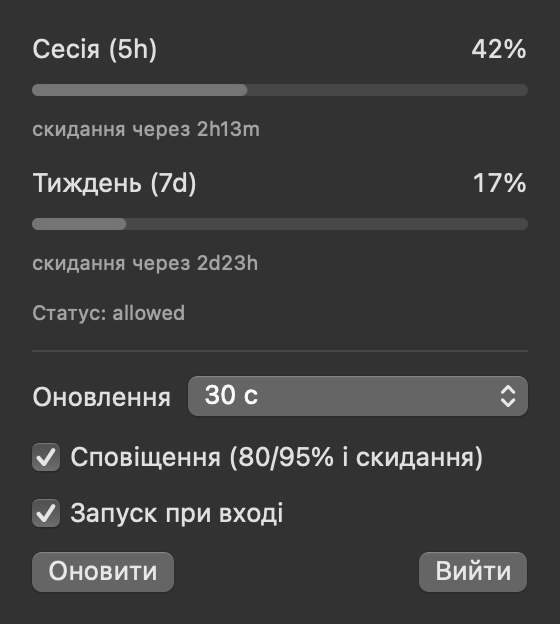
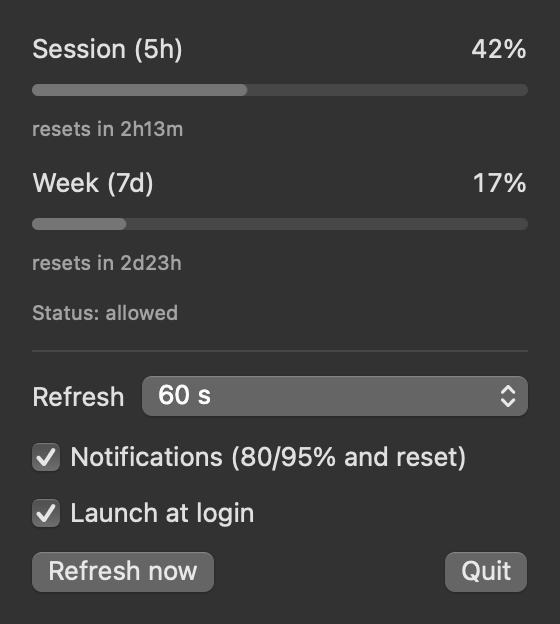
feat: English/Ukrainian localization by system language
Claude-Session: https://claude.ai/code/session_01P3xb7KCXM7QLWYKrbe322S

diff --git a/Sources/ClawdMenu/ClawdMenuApp.swift b/Sources/ClawdMenu/ClawdMenuApp.swift
@@ -2,6 +2,32 @@ import SwiftUI
 import ServiceManagement
 import UserNotifications
 
+// MARK: - Localization (укр, якщо серед мов системи є українська; інакше англійська)
+
+var lang = Locale.preferredLanguages.contains { $0.hasPrefix("uk") } ? "uk" : "en"
+let uk: [String: String] = [
+    "Session reset": "Сесію скинуто",
+    "The 5h limit is available again": "Ліміт 5h знову вільний",
+    "Claude: session %d%%": "Claude: сесія %d%%",
+    "Resets in %@": "Скидання через %@",
+    "resets in %@": "скидання через %@",
+    "Token not found in Keychain — sign in to Claude Code": "Токен не знайдено в Keychain — залогінься в Claude Code",
+    "Spend (overage)": "Витрати (overage)",
+    "Session (5h)": "Сесія (5h)",
+    "Week (7d)": "Тиждень (7d)",
+    "Status: %@": "Статус: %@",
+    "Refresh": "Оновлення",
+    "%d s": "%d с",
+    "Notifications (80/95% and reset)": "Сповіщення (80/95% і скидання)",
+    "Launch at login": "Запуск при вході",
+    "Refresh now": "Оновити",
+    "Quit": "Вийти",
+]
+func tr(_ key: String, _ args: CVarArg...) -> String {
+    let f = lang == "uk" ? uk[key] ?? key : key
+    return args.isEmpty ? f : String(format: f, arguments: args)
+}
+
 // MARK: - Model
 
 struct Usage {
@@ -51,11 +77,11 @@ final class Store: ObservableObject {
     private func check(_ u: Usage) {
         if u.session < lastSession - 20 {   // сесія скинулась
             notified.removeAll()
-            push("Сесію скинуто", "Ліміт 5h знову вільний")
+            push(tr("Session reset"), tr("The 5h limit is available again"))
         }
         for t in [80, 95] where u.session >= t && !notified.contains(t) {
             notified.insert(t)
-            push("Claude: сесія \(u.session)%", "Скидання через \(fmt(u.sessionReset))")
+            push(tr("Claude: session %d%%", u.session), tr("Resets in %@", fmt(u.sessionReset)))
         }
     }
 
@@ -87,7 +113,7 @@ func token() throws -> String {
         let m = String(s[r])
         return String(m.split(separator: "\"").last!)
     }
-    throw AppError(errorDescription: "Токен не знайдено в Keychain — залогінься в Claude Code")
+    throw AppError(errorDescription: tr("Token not found in Keychain — sign in to Claude Code"))
 }
 
 func fetch() async throws -> Usage {
@@ -126,7 +152,7 @@ struct Row: View {
             HStack { Text(label); Spacer(); Text("\(pct)%").monospacedDigit() }
             ProgressView(value: Double(min(pct, 100)), total: 100)
                 .tint(pct >= 95 ? .red : pct >= 80 ? .orange : .accentColor)
-            Text("скидання через \(fmt(reset))").font(.caption).foregroundStyle(.secondary)
+            Text(tr("resets in %@", fmt(reset))).font(.caption).foregroundStyle(.secondary)
         }
     }
 }
@@ -137,24 +163,24 @@ struct Panel: View {
     var body: some View {
         VStack(alignment: .leading, spacing: 12) {
             if let u = s.usage {
-                Row(label: u.enterprise ? "Витрати (overage)" : "Сесія (5h)", pct: u.session, reset: u.sessionReset)
-                if !u.enterprise { Row(label: "Тиждень (7d)", pct: u.week, reset: u.weekReset) }
-                Text("Статус: \(u.status)").font(.caption).foregroundStyle(.secondary)
+                Row(label: u.enterprise ? tr("Spend (overage)") : tr("Session (5h)"), pct: u.session, reset: u.sessionReset)
+                if !u.enterprise { Row(label: tr("Week (7d)"), pct: u.week, reset: u.weekReset) }
+                Text(tr("Status: %@", u.status)).font(.caption).foregroundStyle(.secondary)
             }
             if let e = s.error { Text(e).font(.caption).foregroundStyle(.red) }
             Divider()
-            Picker("Оновлення", selection: Binding(get: { s.interval }, set: { s.interval = $0; s.restart() })) {
-                ForEach([30.0, 60, 120, 300], id: \.self) { Text("\(Int($0)) с").tag($0) }
+            Picker(tr("Refresh"), selection: Binding(get: { s.interval }, set: { s.interval = $0; s.restart() })) {
+                ForEach([30.0, 60, 120, 300], id: \.self) { Text(tr("%d s", Int($0))).tag($0) }
             }
-            Toggle("Сповіщення (80/95% і скидання)", isOn: $s.notify)
-            Toggle("Запуск при вході", isOn: Binding(get: { login }, set: { on in
+            Toggle(tr("Notifications (80/95% and reset)"), isOn: $s.notify)
+            Toggle(tr("Launch at login"), isOn: Binding(get: { login }, set: { on in
                 do { on ? try SMAppService.mainApp.register() : try SMAppService.mainApp.unregister(); login = on }
                 catch { s.error = error.localizedDescription }
             }))
             HStack {
-                Button("Оновити") { Task { await s.refresh() } }
+                Button(tr("Refresh now")) { Task { await s.refresh() } }
                 Spacer()
-                Button("Вийти") { NSApplication.shared.terminate(nil) }
+                Button(tr("Quit")) { NSApplication.shared.terminate(nil) }
             }
         }
         .padding().frame(width: 280)
@@ -173,6 +199,7 @@ struct ClawdMenuApp: App {
     init() {
         // `ClawdMenu --render-demo out.png`: рендерить popover з демо-даними для README і виходить
         let a = CommandLine.arguments
+        if let l = a.firstIndex(of: "--lang"), l + 1 < a.count { lang = a[l + 1] }
         guard let i = a.firstIndex(of: "--render-demo"), i + 1 < a.count else { return }
         let demo = Usage(session: 42, sessionReset: 133, week: 17, weekReset: 4300, status: "allowed")
         let view = Panel(s: Store(demo: demo)).background(Color(nsColor: .windowBackgroundColor))

diff --git a/README.md b/README.md
@@ -6,7 +6,7 @@ The menu bar shows the Clawd icon plus e.g. `42% · 2h13m` (session usage · tim
 
 ![ClawdMenu popover](screenshots/popover.png)
 
-*Rendered with demo data via `ClawdMenu --render-demo screenshots/popover.png`.*
+*Rendered with demo data via `ClawdMenu --lang en --render-demo screenshots/popover.png` (`--lang uk` for Ukrainian).*
 
 ## Features
 
@@ -15,6 +15,7 @@ The menu bar shows the Clawd icon plus e.g. `42% · 2h13m` (session usage · tim
 - Notifications at 80% and 95% of the session, and when the session resets
 - Configurable refresh interval (30 s, 1 min, 2 min, 5 min)
 - Launch at login toggle
+- English and Ukrainian UI: Ukrainian if any of the system's preferred languages is Ukrainian, English otherwise
 - Menu bar only: no Dock icon
 
 ## Requirements
